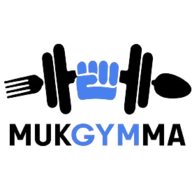
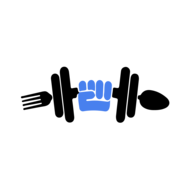
ㅁㄴㅇ

Changed region(s): [[0.0, 0.2188, 1.0, 0.7812]]

diff --git a/projects/fe/app/sign-in/page.tsx b/projects/fe/app/sign-in/page.tsx
@@ -4,6 +4,9 @@ import GoogleLoginButton from "@/sign-in/_components/GoogleLoginButton";
 import KakaoLoginButton from "@/sign-in/_components/KakaoLoginButton";
 import { Jua, Noto_Sans_KR } from "next/font/google";
 
+import logo from "@/_images/logo_with_name.png";
+import Image from "next/image";
+
 const notoSansKr = Noto_Sans_KR({
     subsets: ["latin"],
 });
@@ -15,32 +18,12 @@ const jua = Jua({
 const page = () => {
     return (
         <main
-            className={`absolute w-screen h-screen bg-[#212121] z-10 ${notoSansKr.className}`}
+            className={`absolute w-screen h-screen bg-app-bg z-10 ${notoSansKr.className}`}
         >
             <div className="px-4 max-w-[500px] w-full h-full mx-auto">
-                <div className="h-1/2 flex flex-col justify-end pb-[10vh]">
-                    <div className="italic font-extrabold text-white">
-                        <div className="rotate-3">
-                            <p className="text-sm">운동+식단 관리는</p>
-                            <p className={`-mt-[2px] text-sm ${jua.className}`}>
-                                AI - Powered
-                            </p>
-                        </div>
-
-                        <div
-                            className={`w-fit mx-auto flex items-end text-[40px] sm:text-[46px] ${jua.className}`}
-                        >
-                            muck{" "}
-                            <p className="text-app-blue text-[43px] sm:text-[48px]">
-                                GYM
-                            </p>{" "}
-                            ma&nbsp;
-                        </div>
-                        <p
-                            className={`w-fit -rotate-3 text-xs ml-auto ${notoSansKr.className}`}
-                        >
-                            먹짐말라구!
-                        </p>
+                <div className="h-1/2 flex flex-col justify-end pb-[6vh]">
+                    <div className="w-fit mx-auto">
+                        <Image src={logo} alt="logo" width={186} height={186} />
                     </div>
                 </div>
 
@@ -48,7 +31,7 @@ const page = () => {
                     <div>
                         <div className="flex items-center gap-4 mt-6 mb-6">
                             <div className="w-full border-t-[1px] border-app-font-5" />
-                            <p className="text-app-font-5 text-xs text-nowrap">
+                            <p className="text-app-font-3 text-xs text-nowrap">
                                 로그인 & 회원가입
                             </p>
                             <div className="w-full border-t-[1px] border-app-font-5" />
@@ -59,7 +42,7 @@ const page = () => {
                         </div>
                     </div>
 
-                    <div className="text-gray-400 flex flex-col items-center gap-2 text-xs mb-6">
+                    <div className="text-gray-500 flex flex-col items-center gap-2 text-xs mb-6">
                         <p>By logging in, you agree to the terms below.</p>
                         <ul className="flex justify-center gap-10 underline underline-offset-2">
                             <button className="cursor-pointer">

diff --git a/projects/fe/app/main/community/layout.tsx b/projects/fe/app/main/community/layout.tsx
@@ -35,10 +35,6 @@ const CommunityLayout: React.FC<CommunityLayoutProps> = (props) => {
     return (
         <>
             <div className="flex flex-col border-b-[1px] border-b-gray-300 px-3">
-                <div className="mt-3 max-w-[835px] mx-auto w-full">
-                    <Image src="/android-chrome-192x192.png" alt="app logo" width={100} height={100} />
-                </div>
-
                 <div className="flex max-w-[835px] mx-auto w-full mt-3 gap-4">
                     {links.map((link, index) => (
                         <Link

diff --git a/projects/fe/app/sign-in/_components/LoginButton.tsx b/projects/fe/app/sign-in/_components/LoginButton.tsx
@@ -21,7 +21,7 @@ const LoginButton: React.FC<LoginButtonProps> = ({
 }) => {
     return (
         <button
-            className={`text-sm font-[500] px-4 w-full flex items-center rounded-[4px] py-2
+            className={`text-[13px] font-[500] px-4 w-full flex items-center rounded-md py-2
                 ${className} ${notoSansKr.className}`}
             onClick={onClick}
         >

diff --git a/projects/fe/app/sign-in/_components/GoogleLoginButton.tsx b/projects/fe/app/sign-in/_components/GoogleLoginButton.tsx
@@ -17,7 +17,7 @@ const GoogleLoginButton: React.FC<GoogleLoginButtonProps> = (props) => {
     return (
         <LoginButton
             onClick={() => router.push(googleLoginUrl)}
-            className="bg-[#FEFEFE] text-[#1f1f1f]"
+            className="bg-[#F2F2F2] text-[#1f1f1f]"
             title="구글 로그인"
             Symbol={GoogleSymbol}
         />

diff --git a/projects/fe/app/main/profile/meals/page.tsx b/projects/fe/app/main/profile/meals/page.tsx
@@ -22,7 +22,7 @@ async function MealPage() {
     return (
         <>
             {sortedMeals.length === 0 && (
-                <NoData text="업로드한 식단이 없습니다." />
+                <NoData text="업로드된 식단이 없습니다." />
             )}
             {sortedMeals.length > 0 && (
                 <div>

diff --git a/projects/fe/app/main/profile/posts/page.tsx b/projects/fe/app/main/profile/posts/page.tsx
@@ -33,7 +33,7 @@ function Page() {
         // </div>
 
         <>
-            <NoData text="업로드한 포스트가 없습니다." />
+            <NoData text="업로드된 포스트가 없습니다." />
 
             <div className="flex flex-col items-center gap-3">
                 {Array.from({ length: 0 }).map((_, i) => (

diff --git a/projects/fe/app/main/profile/completed/page.tsx b/projects/fe/app/main/profile/completed/page.tsx
@@ -41,7 +41,7 @@ async function CompletedPage() {
     return (
         <>
             {sortedPlans.length === 0 && (
-                <NoData text="완료한 운동 플랜이 없습니다." />
+                <NoData text="완료된 운동 플랜이 없습니다." />
             )}
 
             {sortedPlans.length > 0 && (
